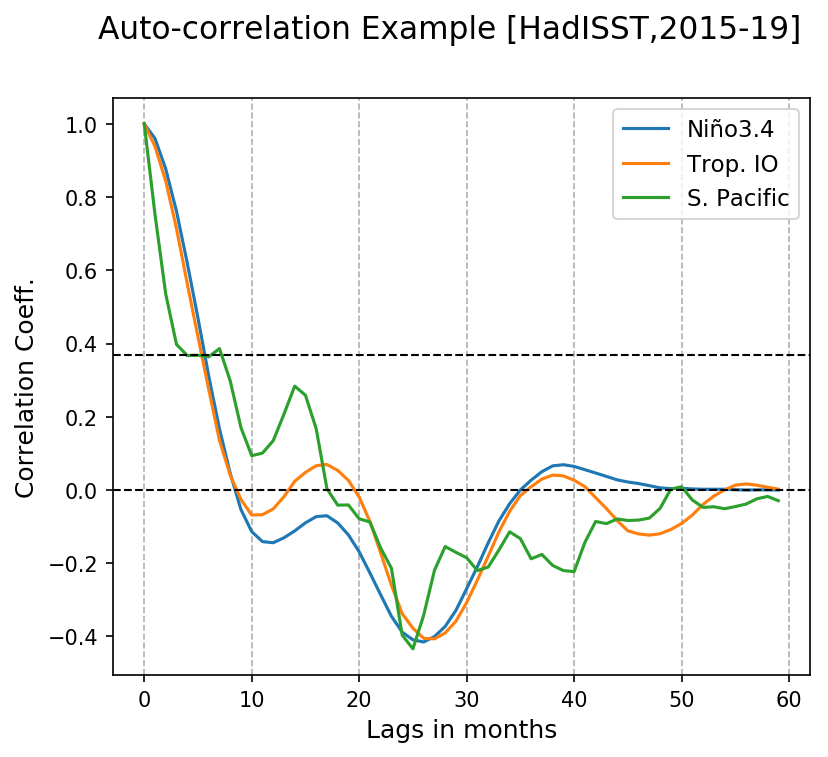
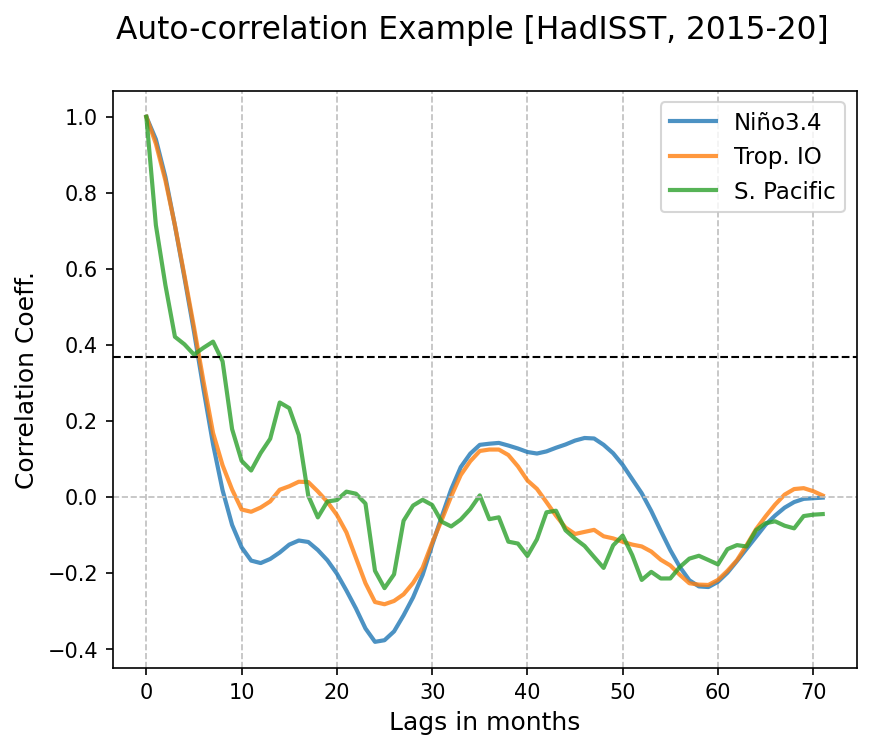
2021.0712

diff --git a/V.Various_Analysis_Methods/V00_Functions.py b/V.Various_Analysis_Methods/V00_Functions.py
@@ -41,10 +41,25 @@ def lon_deg2x(lon,lon0,dlon):
     return x
 lat_deg2y = lambda lat,lat0,dlat: ceil((lat-lat0)/dlat)
 
-def read_sst_from_HadISST(yrs=[2015,2019]):
+def get_tgt_latlon_idx(latlons, tgt_lats, tgt_lons):
+    lon0,dlon,nlon= latlons['loninfo']
+    lat0,dlat,nlat= latlons['latinfo']
+    ##-- Regional index
+    if isinstance(tgt_lons,list):
+        lon_idx= [lon_deg2x(ll,lon0,dlon) for ll in tgt_lons]
+        if lon_idx[1]<lon_idx[0]:
+            lon_ids= list(range(lon_idx[0],nlon,1))+list(range(lon_idx[1]))
+        else:
+            lon_ids= np.arange(lon_idx[0], lon_idx[1], 1)
+    else:
+        lon_ids= np.arange(nlon,dtype=int)
+    lat_idx= [lat_deg2y(ll,lat0,dlat) for ll in tgt_lats]
+    return lat_idx, lon_ids
+
+def read_sst_from_HadISST(yrs=[2015,2020],include_ice=False):
     ###--- Parameters
     indir= '../Data/'
-    yrs0= [2015,2019]
+    yrs0= [2015,2020]
     lon0,dlon,nlon= -179.5,1.,360
     lat0,dlat,nlat=  -89.5,1.,180
     mon_per_yr= 12
@@ -56,18 +71,22 @@ def read_sst_from_HadISST(yrs=[2015,2019]):
 
     it= (yrs[0]-yrs0[0])*mon_per_yr
     nmons= (yrs[1]-yrs[0]+1)*mon_per_yr
-    sst= sst[it:it+nmons,:,:]
+    if (it != 0) or (nmons != nt):
+        sst= sst[it:it+nmons,:,:]
     print(sst.shape)
 
     ### We already know that missings are -999.9, and ice-cover value is -10.00.
-    miss_idx= sst<-9.9
+    if include_ice:
+        miss_idx= sst<-11
+    else:
+        miss_idx= sst<-9.9
     sst[miss_idx]= np.nan
 
-    lats= dict(lat0=lat0,dlat=dlat,nlat=nlat)
-    lons= dict(lon0=lon0,dlon=dlon,nlon=nlon)
-    return sst, lats,lons
+    lat_info= dict(lat0=lat0,dlat=dlat,nlat=nlat)
+    lon_info= dict(lon0=lon0,dlon=dlon,nlon=nlon)
+    return sst, lat_info,lon_info
 
-def get_sst_ano_from_HadISST(area_bound,yrs=[2015,2019],remove_AC=True):
+def get_sst_ano_from_HadISST(area_bound,yrs=[2015,2020],remove_AC=True):
     '''
     area_bound= [west,east,south,north] in degrees
     '''
@@ -75,27 +94,23 @@ def get_sst_ano_from_HadISST(area_bound,yrs=[2015,2019],remove_AC=True):
     ### Read SST
     sst, lats, lons= read_sst_from_HadISST(yrs=yrs)
 
-    ### Cut by given area_bound
+    ### Check validity of given area bound
     if area_bound[2]<lats['lat0'] or area_bound[3]>lats['lat0']+lats['dlat']*lats['nlat']:
         print("area_bound is out of limit", area_bound, lats)
         sys.exit()
 
-    lon_idx= [lon_deg2x(lon,lons['lon0'],lons['dlon']) for lon in area_bound[:2]]
-    lat_idx= [lat_deg2y(lat,lats['lat0'],lats['dlat']) for lat in area_bound[2:]]
-    print(lon_idx,lat_idx)
-    if lon_idx[0]>=lon_idx[1]:
-        tmpidx= list(range(lon_idx[0],lons['nlon']))+list(range(0,lon_idx[1]))
-        sst= sst[:,lat_idx[0]:lat_idx[1],tmpidx]
-    else:
-        sst= sst[:,lat_idx[0]:lat_idx[1],lon_idx[0]:lon_idx[1]]
+    ### Cut by given area_bound
+    latlons= dict(latinfo=(lats['lat0'],lats['dlat'],lats['nlat']),
+                    loninfo=(lons['lon0'],lons['dlon'],lons['nlon']))
+    lat_idx, lon_ids = get_tgt_latlon_idx(latlons, area_bound[2:], area_bound[:2])
+    sst= sst[:,lat_idx[0]:lat_idx[1],lon_ids]
 
     ##- Update parameters
     nt,nlat,nlon= sst.shape
-    lons['lon0']= lons['lon0']+lons['dlon']*lon_idx[0]
+    lons['lon0']= lons['lon0']+lons['dlon']*lon_ids[0]
     lons['nlon']= nlon
     lats['lat0']= lats['lat0']+lats['dlat']*lat_idx[0]
     lats['nlat']= nlat
-
 
     ### Remove annual mean
     sstm= sst.mean(axis=0)
@@ -110,23 +125,24 @@ def get_sst_ano_from_HadISST(area_bound,yrs=[2015,2019],remove_AC=True):
 
     return sstano, lats, lons
 
-def get_sst_areamean_from_HadISST(area_bound,yrs= [2015,2019],remove_AC=True):
+def get_sst_areamean_from_HadISST(area_bound,yrs= [2015,2020],remove_AC=True):
     '''
     area_bound= [west,east,south,north] in degrees
     '''
     ### Read SST
     sst, lats, lons= read_sst_from_HadISST(yrs=yrs)
 
-    ### Calculate area mean
-    lon_idx= [lon_deg2x(lon,lons['lon0'],lons['dlon']) for lon in area_bound[:2]]
-    lat_idx= [lat_deg2y(lat,lats['lat0'],lats['dlat']) for lat in area_bound[2:]]
+    ### Check validity of given area bound
+    if area_bound[2]<lats['lat0'] or area_bound[3]>lats['lat0']+lats['dlat']*lats['nlat']:
+        print("area_bound is out of limit", area_bound, lats)
+        sys.exit()
 
-    if lon_idx[0]>lon_idx[1]:
-        tmpidx= list(range(lon_idx[0],lons['nlon']))+list(range(0,lon_idx[1]))
-        am= np.nanmean(sst[:,lat_idx[0]:lat_idx[1],tmpidx],axis=(1,2))
-    else:
-        am= np.nanmean(sst[:,lat_idx[0]:lat_idx[1],lon_idx[0]:lon_idx[1]],axis=(1,2))
-    print(lon_idx+lat_idx,am.shape, am.min(), am.max())  # Check if NaN exists here
+    ### Calculate area mean
+    latlons= dict(latinfo=(lats['lat0'],lats['dlat'],lats['nlat']),
+                    loninfo=(lons['lon0'],lons['dlon'],lons['nlon']))
+    lat_idx, lon_ids = get_tgt_latlon_idx(latlons, area_bound[2:], area_bound[:2])
+    am= np.nanmean(sst[:,lat_idx[0]:lat_idx[1],lon_ids],axis=(1,2))
+    print([lon_ids[0],lon_ids[-1]]+lat_idx,am.shape, am.min(), am.max())  # Check if NaN exists here
 
     if remove_AC:
         ### Remove seasonal cycle
@@ -179,17 +195,18 @@ def read_rmm_text(date_range=[]):
 
 def get_monthly_dates(date1,date2,day=1,include_date2=True):
     '''
-    From date1 to date2 (include or not)
-    yield date monthly
-    "day" indicate defalut day of month
+    From date1 to date2 (include or not), yield date monthly.
+    "day" indicates default day of each month.
     '''
-    yr1,mo1= date1.year, date1.month
-    yr2,mo2= date2.year, date2.month
     mon_per_year=12
+    ## Make sure date1 is before date2
     if date1>date2:
         tmpdate= date1
         date1= date2
         date2= tmpdate
+    yr1,mo1= date1.year, date1.month
+    yr2,mo2= date2.year, date2.month
+
     outdates=[]
     while True:
         outdates.append(date(yr1,mo1,day))

diff --git a/V.Various_Analysis_Methods/V02_AutoCorr_Ex_py3.py b/V.Various_Analysis_Methods/V02_AutoCorr_Ex_py3.py
@@ -1,5 +1,6 @@
 """
 Calculate auto-correlation of Nino3.4 and SST indices (area mean)
+Function to use: statsmodels.tsa.stattools.acf()
 
 ---
 Data file:  Hadley Centre Sea Ice and Sea Surface Temperature data set (HadISST)
@@ -23,7 +24,7 @@ import V00_Functions as vf
 
 def main():
     ### Get Nino3.4 Index
-    yrs= [2015,2019]  # Starting year and ending year
+    yrs= [2015,2020]  # Starting year and ending year
     #Nino3.4 (5N-5S, 170W-120W) [-170,-120,-5,5]
     nn34= vf.get_sst_areamean_from_HadISST([-170,-120,-5,5],yrs,remove_AC=True)
     ### And other region
@@ -34,11 +35,11 @@ def main():
     ### Plotting setup
     ###---
     fig=plt.figure()
-    fig.set_size_inches(6,5)  ## (xsize,ysize)
+    fig.set_size_inches(6.4,5)  ## (xsize,ysize)
 
     ###--- Suptitle
-    suptit="Auto-correlation Example [HadISST,2015-19]"
-    fig.suptitle(suptit,fontsize=15,y=0.95,va='bottom',stretch='semi-condensed')
+    suptit="Auto-correlation Example [HadISST, 2015-20]"
+    fig.suptitle(suptit,fontsize=15,y=0.94,va='bottom',stretch='semi-condensed')
 
     ax1= fig.add_subplot(111)
     sub_tit= ''
@@ -47,14 +48,12 @@ def main():
     autocorr_plot(ax1,data,vnames,sub_tit)
 
     ### Show or save
-    plt.show()
-
     outdir= '../Pics/'
     out_fig_nm= outdir+'V02.autocorr_example.SST_AM+Nino34.png'
     #fig.savefig(outfnm,dpi=100)   # dpi: pixels per inch
-    #fig.savefig(out_fig_nm,dpi=150,bbox_inches='tight')   # dpi: pixels per inch
+    fig.savefig(out_fig_nm,dpi=150,bbox_inches='tight')   # dpi: pixels per inch
     print(out_fig_nm)
-
+    plt.show()
     return
 
 def autocorr_plot(ax,data,vnames,subtit):
@@ -64,7 +63,7 @@ def autocorr_plot(ax,data,vnames,subtit):
 
     ### auto-corr plot
     for d,vn in zip(data,vnames):
-        ac= ax.plot(acf(d,nlags=min(len(d)-1,160)),label=vn)
+        ac= ax.plot(acf(d,nlags=min(len(d)-1,160)),label=vn,lw=2,alpha=0.85)
 
     ### Title
     ax.set_title(subtit,fontsize=13,ha='left',x=0.0)
@@ -72,7 +71,7 @@ def autocorr_plot(ax,data,vnames,subtit):
     ### Zero lines
     ylim= ax.get_ylim()
     if ylim[0]*ylim[1]<0:
-        ax.axhline(y=0.,ls='--',lw=1,c='k')
+        ax.axhline(y=0.,ls='--',lw=0.8,c='0.75')
     ax.axhline(y=1/np.exp(1),ls='--',lw=1,c='k')  # 1/e; ref. for e-folding time
 
     ### Misc
@@ -80,7 +79,7 @@ def autocorr_plot(ax,data,vnames,subtit):
     ax.set_xlabel('Lags in months',fontsize=12)
     ax.set_ylabel('Correlation Coeff.',fontsize=12)
     ax.tick_params(axis='both',labelsize=10)
-    ax.grid(axis='x',ls='--')
+    ax.grid(axis='x',ls='--',lw=0.8,c='0.75')
 
     return
 

diff --git a/V.Various_Analysis_Methods/V01_Regression_Nino34_SST_AM_py3.py b/V.Various_Analysis_Methods/V01_Regression_Nino34_SST_AM_py3.py
@@ -1,9 +1,10 @@
 """
 Calculate regression slopes between Nino3.4 and SST indices (area mean)
+Function to use: scipy.stats.linregress()
 
 ---
 Data file:  Hadley Centre Sea Ice and Sea Surface Temperature data set (HadISST)
-Binary data file(HadISST) was produced by D04 code
+Binary data file(HadISST) was produced by D05 code
 Source: https://www.metoffice.gov.uk/hadobs/hadisst/data/download.html
 Referece: Rayner, N. A.; Parker, D. E.; Horton, E. B.; Folland, C. K.; Alexander, L. V.;
  Rowell, D. P.; Kent, E. C.; Kaplan, A. (2003) Global analyses of sea surface temperature,
@@ -25,9 +26,9 @@ import V00_Functions as vf
 
 def main():
     ### Get Nino3.4 Index
-    yrs= [2015,2019]  # Starting year and ending year
+    yrs= [2015,2020]  # Starting year and ending year
     #Nino3.4 (5N-5S, 170W-120W) [-170,-120,-5,5]
-    nn34= vf.get_sst_areamean_from_HadISST([-170,-120,-5,5],yrs,remove_AC=False)
+    nn34= vf.get_sst_areamean_from_HadISST([-170,-120,-5,5],yrs,remove_AC=True)
     ### And other regions
     tio= vf.get_sst_areamean_from_HadISST([240,280,-10,0],yrs,remove_AC=True)
     spo= vf.get_sst_areamean_from_HadISST([-170,-120,-40,-30],yrs,remove_AC=True)
@@ -39,9 +40,9 @@ def main():
     fig.set_size_inches(6,8.5)  ## (xsize,ysize)
 
     ###--- Suptitle
-    suptit="Regr. of SST against Ni{}o3.4 [HadISST,2015-19]".format('\u00F1')
-    fig.suptitle(suptit,fontsize=15,y=0.95,va='bottom',stretch='semi-condensed')
-    fig.subplots_adjust(hspace=0.3)
+    suptit="Regr. of SST against Ni{}o3.4 [HadISST, 2015-20]".format('\u00F1')
+    fig.suptitle(suptit,fontsize=15,y=0.97,va='bottom',stretch='semi-condensed')
+    fig.subplots_adjust(top=0.92,hspace=0.3)
 
     ax1= fig.add_subplot(211)
     sub_tit= '(a) Tropical Indian Ocean'
@@ -52,14 +53,12 @@ def main():
     scatter_and_regr_plot(ax2,nn34,spo,sub_tit)
 
     ### Show or save
-    plt.show()
-
     outdir= '../Pics/'
     out_fig_nm= outdir+'V01.regression_example.SST_AMvsNino34.png'
     #fig.savefig(outfnm,dpi=100)   # dpi: pixels per inch
-    #fig.savefig(out_fig_nm,dpi=150,bbox_inches='tight')   # dpi: pixels per inch
+    fig.savefig(out_fig_nm,dpi=150,bbox_inches='tight')   # dpi: pixels per inch
     print(out_fig_nm)
-
+    plt.show()
     return
 
 def scatter_and_regr_plot(ax,x,y,subtit):

diff --git a/V.Various_Analysis_Methods/V03_Lead-Lag_Corr_Ex_py3.py b/V.Various_Analysis_Methods/V03_Lead-Lag_Corr_Ex_py3.py
@@ -25,7 +25,7 @@ import V00_Functions as vf
 
 def main():
     ### Get Nino3.4 Index
-    yrs= [2015,2019]  # Starting year and ending year
+    yrs= [2015,2020]  # Starting year and ending year
     #Nino3.4 (5N-5S, 170W-120W) [-170,-120,-5,5]
     nn34= vf.get_sst_areamean_from_HadISST([-170,-120,-5,5],yrs,remove_AC=True)
     ### And other region
@@ -39,10 +39,10 @@ def main():
     fig.set_size_inches(6,8.5)  ## (xsize,ysize)
     fig.subplots_adjust(hspace=0.3)
     ###--- Suptitle
-    suptit="Lead-Lag Correlation Example [HadISST,2015-19]"
+    suptit="Lead-Lag Correlation Example [HadISST,2015-20]"
     fig.suptitle(suptit,fontsize=15,y=0.95,va='bottom',stretch='semi-condensed')
 
-    maxlag=7
+    maxlag=7  # in months
 
     ax1= fig.add_subplot(211)
     sub_tit= '(a) Ni{}o3.4 vs. TIO'.format('\u00F1')
@@ -57,13 +57,12 @@ def main():
     llcorr_plot(ax1,data,vnames,sub_tit,maxlag=maxlag)
 
     ### Show or save
-    plt.show()
-
     outdir= '../Pics/'
     out_fig_nm= outdir+'V03.llcorr_example.SST_AM+Nino34.png'
     #fig.savefig(outfnm,dpi=100)   # dpi: pixels per inch
-    #fig.savefig(out_fig_nm,dpi=150,bbox_inches='tight')   # dpi: pixels per inch
+    fig.savefig(out_fig_nm,dpi=150,bbox_inches='tight')   # dpi: pixels per inch
     print(out_fig_nm)
+    plt.show()
     return
 
 def llcorr_plot(ax,data,vnames,subtit,maxlag=5):

diff --git a/A.Basic_Python/A01.python_basic_dataType.py3.py b/A.Basic_Python/A01.python_basic_dataType.py3.py
@@ -95,7 +95,7 @@ print("Value of {} and {}:".format(boo1,boo2))
 print(int(boo1),int(boo2),'\n')
 print("{}+{} = {}".format(boo1,boo2,boo1+boo2))
 print("{}+{} = {}".format(boo1,boo1,boo1+boo1))
-print("{}+{} = {} \n".format(boo2,boo2,boo2+boo2))
+print("{}-{} = {} \n".format(boo2,boo2,boo2-boo2))
 print("{} 'and' {} = {}".format(boo1,boo2,boo1 and boo2))
 print("{} 'or' {} = {}".format(boo1,boo2,boo1 or boo2))
 print("'not' {} = {} \n".format(boo1, not boo1))
@@ -117,10 +117,12 @@ print("\n5. Print format examples")
 print("cf. https://pyformat.info/ \n")
 print("a, b, c = 1, 2, 3.666667")
 a, b, c = 1, 2, 3.666667
+
 print("\nInteger")
 format_test1 = '{}, {:d}, {:3d}, {:03d}'
 print(format_test1)
 print(format_test1.format(a,a,a,a))
+
 print("\nFloat")
 format_test2 = '{}, {:.0f}, {:.3f}, {:7.3f}, {:07.3f}'
 print(format_test2)

diff --git a/A.Basic_Python/A02.python_basic_list.py3.py b/A.Basic_Python/A02.python_basic_list.py3.py
@@ -156,14 +156,14 @@ print("mean = sum(e)/len(e) = {}".format(sum(e)/len(e)))
 
 print("""
 'eval' function: evaluate string as a python variable
-x1= 1
-x2= 10
-x3= 'a'
+x0= 1
+x1= 10
+x2= 'a'
 xx= [eval('x{}'.format(i)) for i in range(3)]  # Same as xx=[x1,x2,x3]""")
-x1= 1
-x2= 10
-x3= 'a'
-xx= [eval('x{}'.format(i)) for i in range(3)]  # Same as xx=[x1,x2,x3]
+x0= 1
+x1= 10
+x2= 'a'
+xx= [eval('x{}'.format(i)) for i in range(3)]  # Same as xx=[x0,x1,x2]
 print(xx)
 
 input("\nPress Enter to continue... (8-1)\n")

diff --git a/O.Matplotlib_Application+Cartopy/O00_Functions.py b/O.Matplotlib_Application+Cartopy/O00_Functions.py
@@ -152,9 +152,9 @@ def read_sst_from_HadISST(yrs=[2015,2020],include_ice=False):
         miss_idx= sst<-9.9
     sst[miss_idx]= np.nan
 
-    lats= dict(lat0=lat0,dlat=dlat,nlat=nlat)
-    lons= dict(lon0=lon0,dlon=dlon,nlon=nlon)
-    return sst, lats,lons
+    lat_info= dict(lat0=lat0,dlat=dlat,nlat=nlat)
+    lon_info= dict(lon0=lon0,dlon=dlon,nlon=nlon)
+    return sst, lat_info,lon_info
 
 
 def bar_x_locator(width,data_dim=[1,10]):
